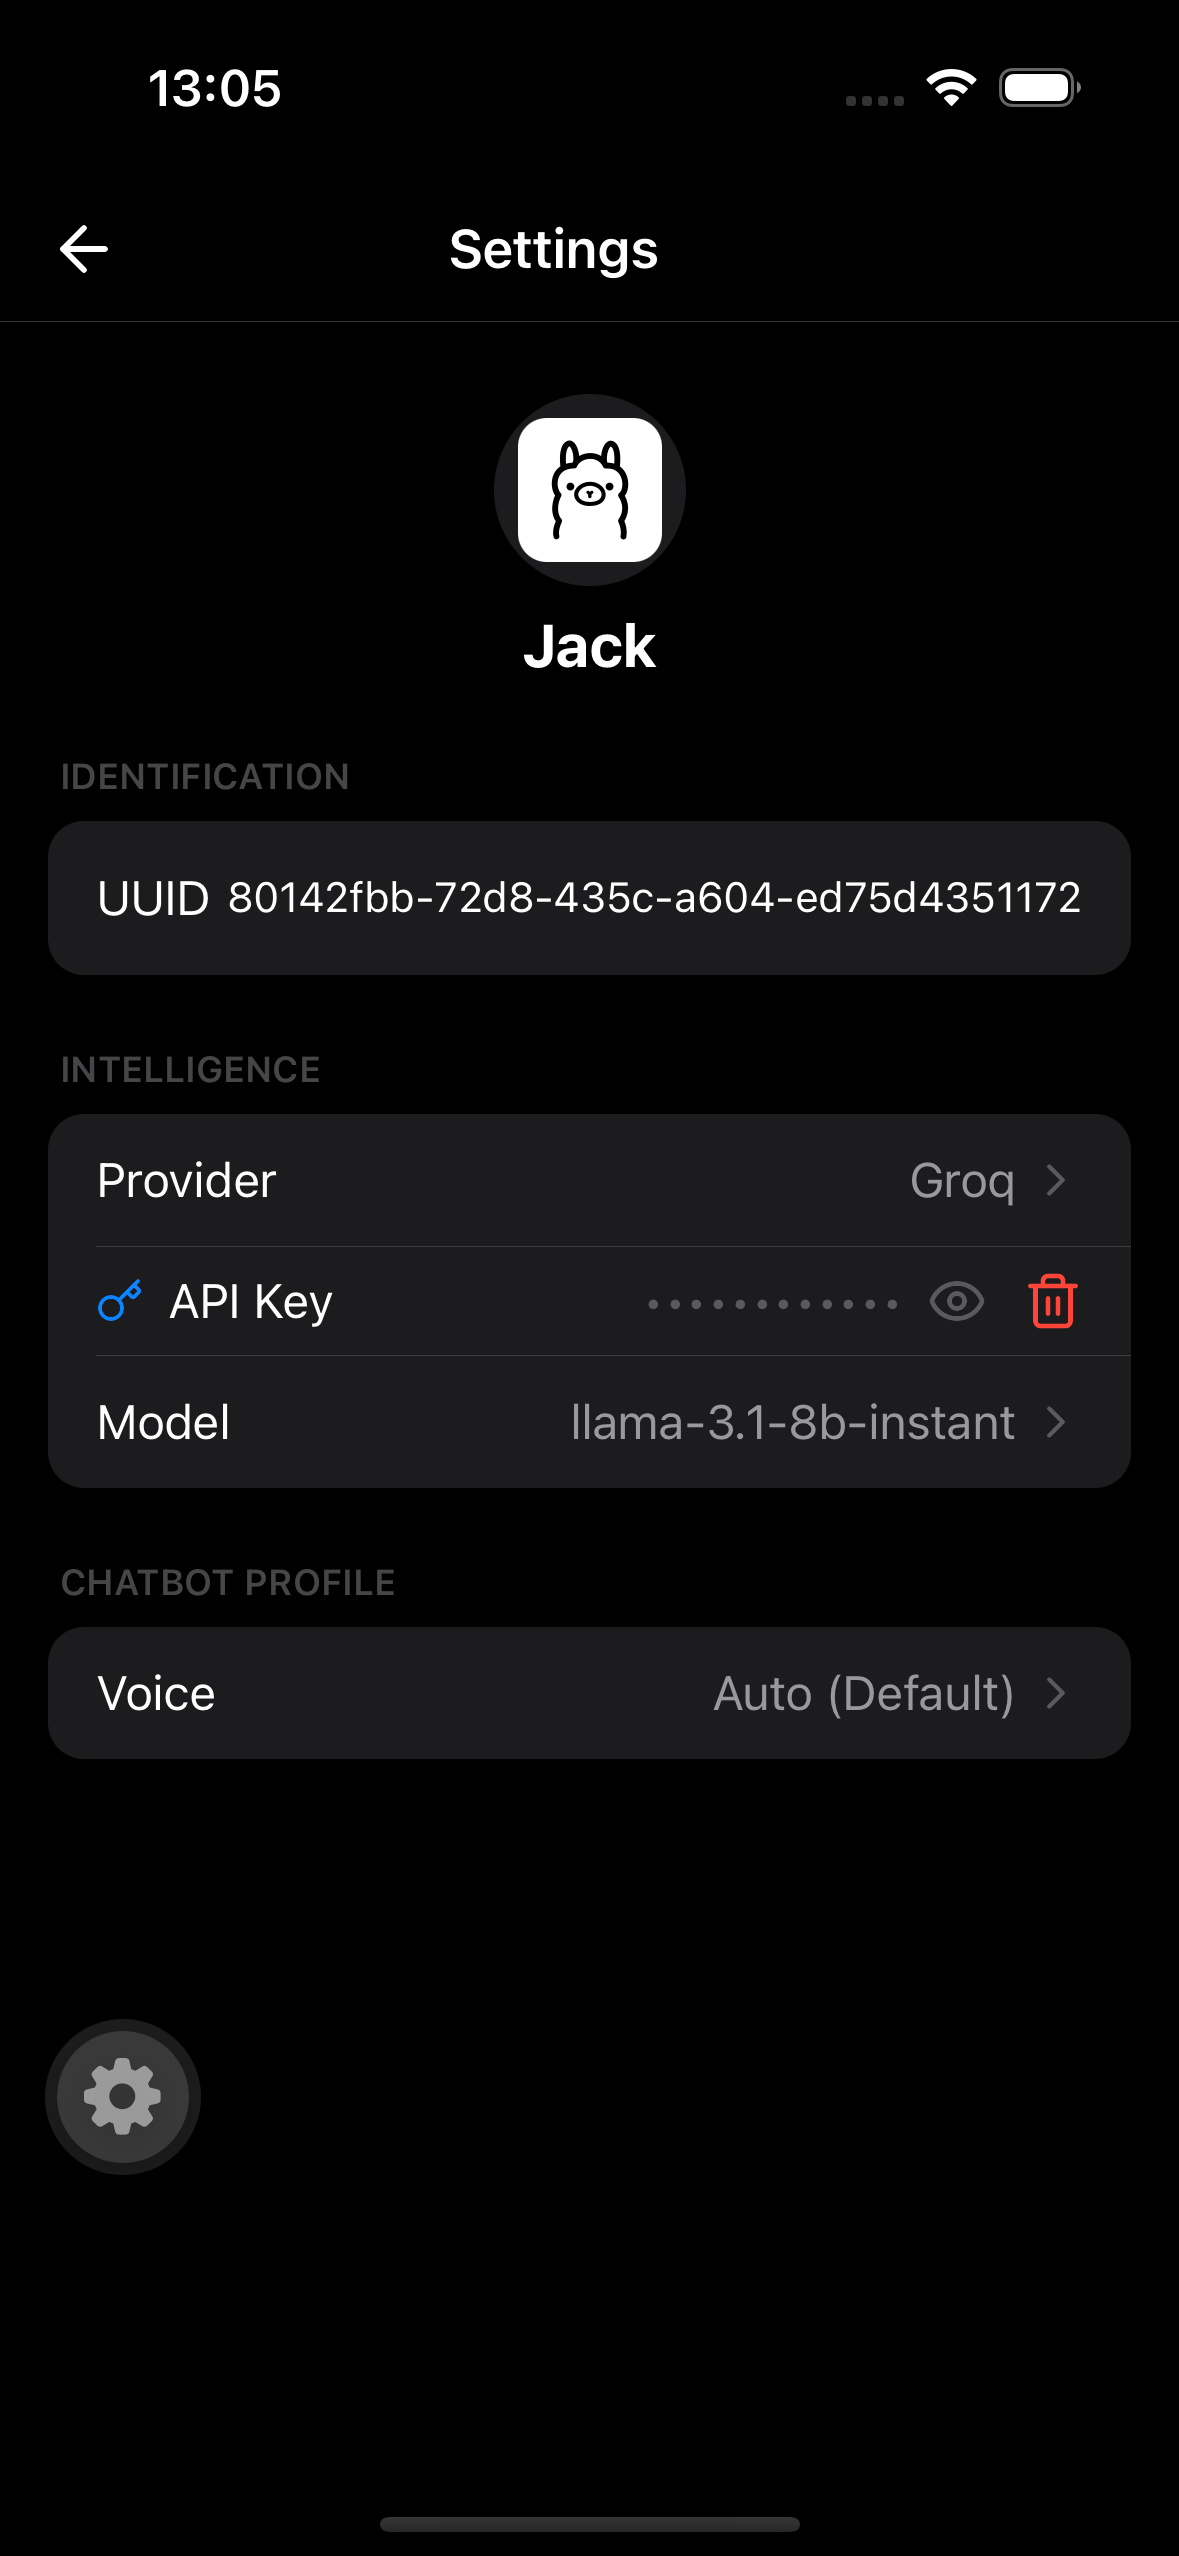
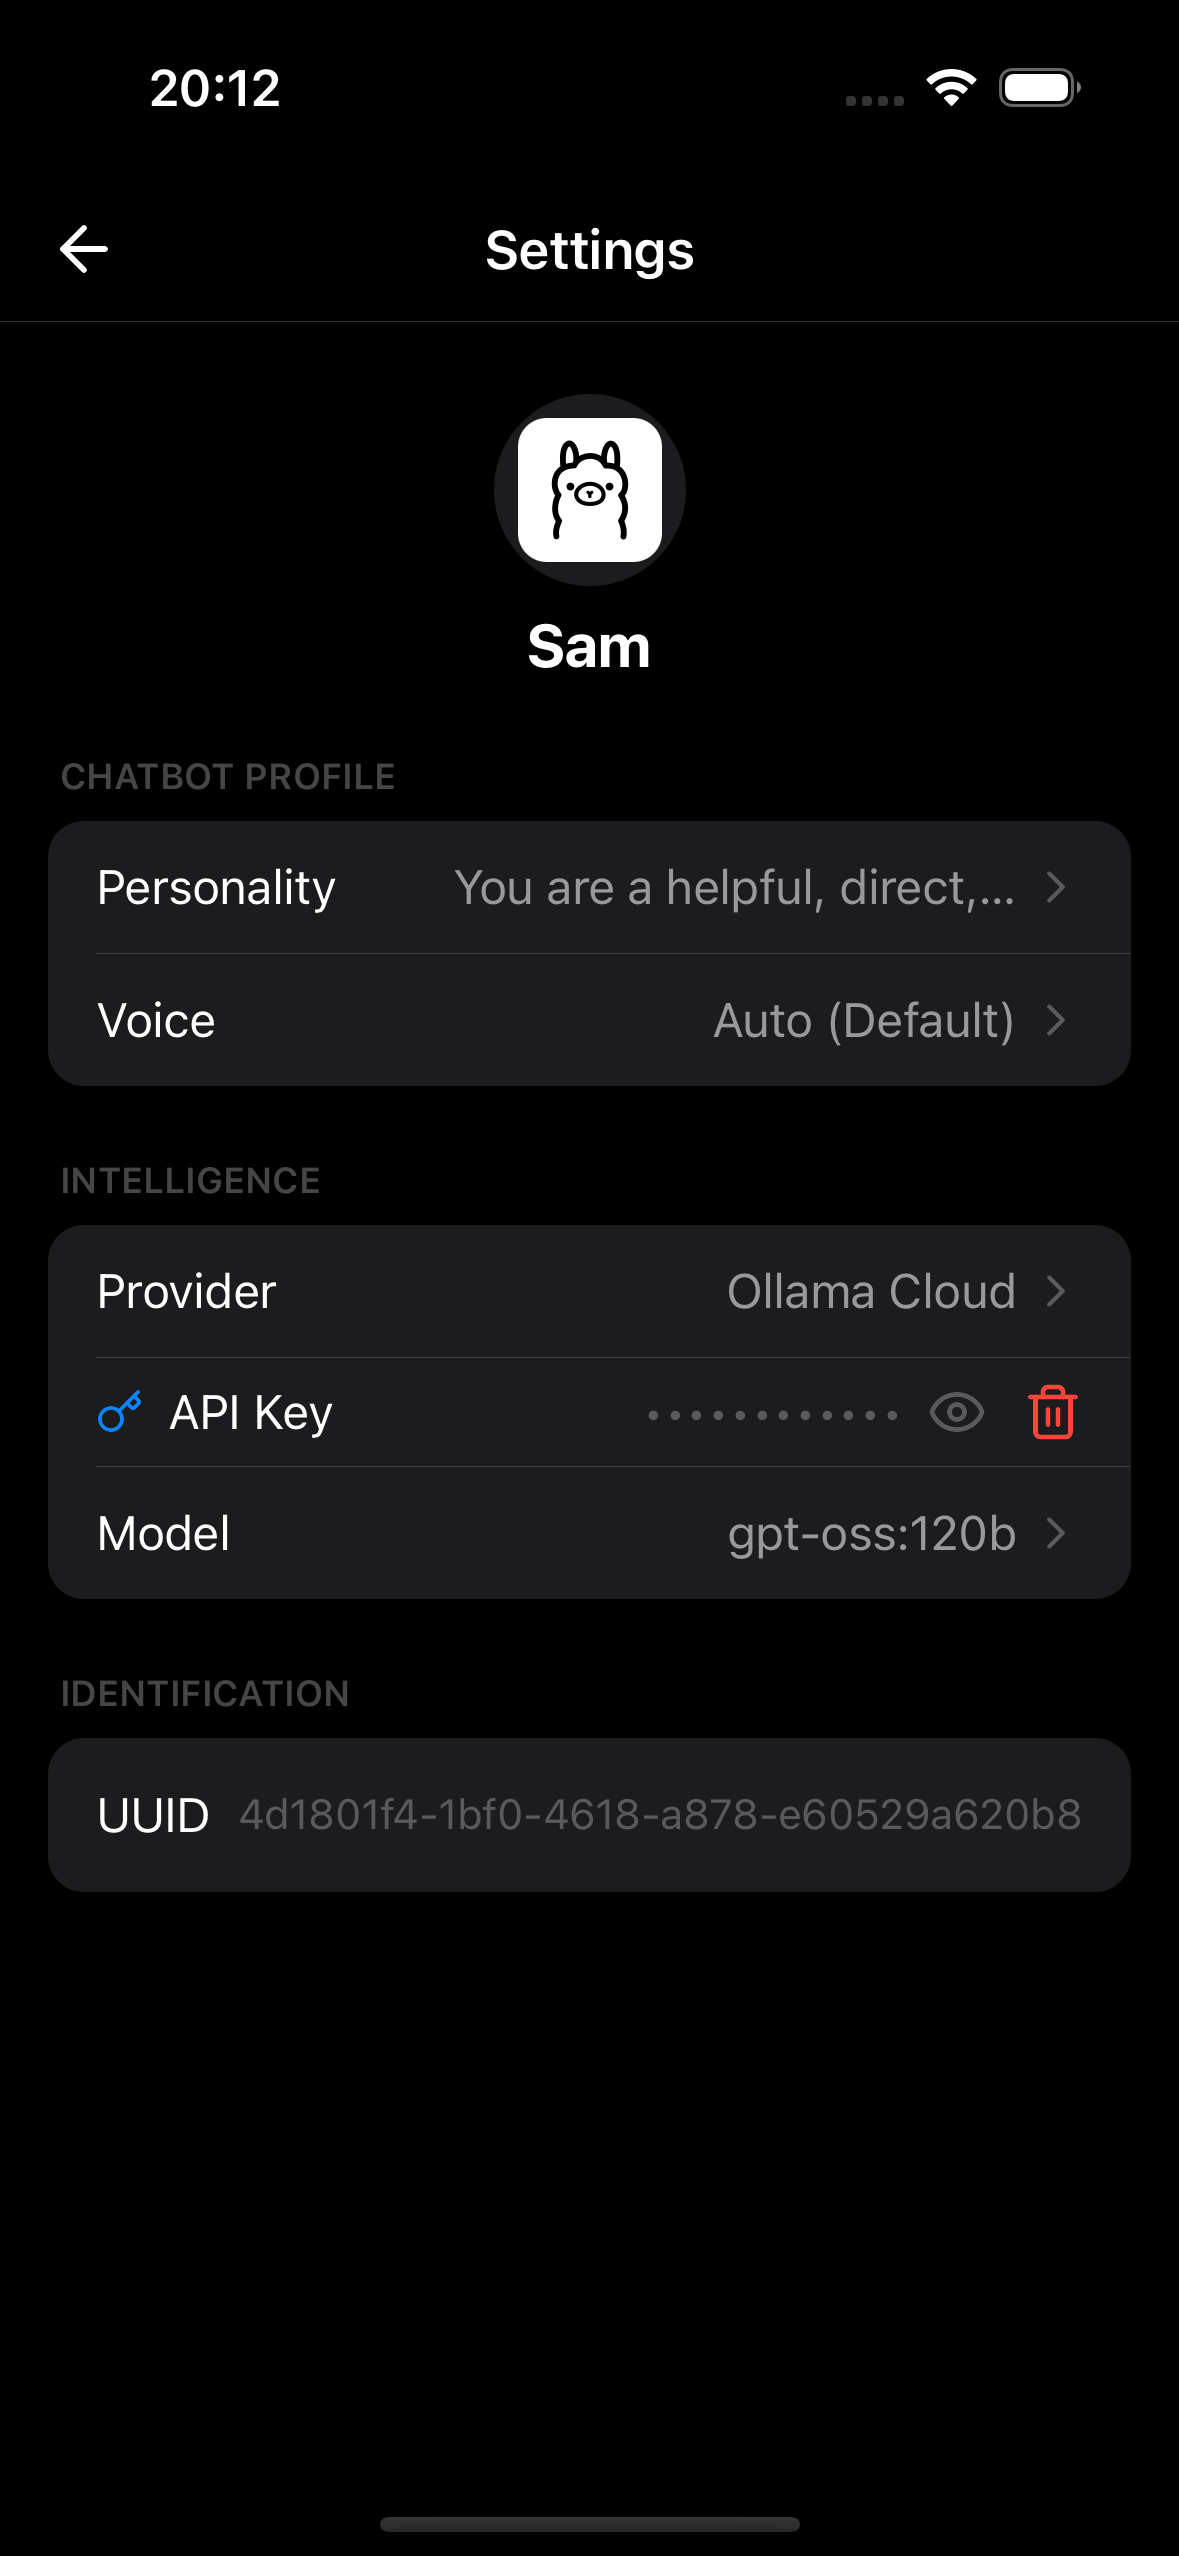
fix(settings): center title, re-arrange sections

diff --git a/src/components/chatbot-settings/ChatbotSettingsHeader.tsx b/src/components/chatbot-settings/ChatbotSettingsHeader.tsx
@@ -21,38 +21,48 @@ export function ChatbotSettingsHeader(props: ChatbotSettingsHeaderProps) {
 
   return (
     <View style={styles.header}>
-      <TouchableOpacity
-        accessibilityLabel="Go back"
-        onPress={onBack}
-        testID="settings-back-button"
-      >
-        <ArrowLeft color={colors.text} size={24} />
-      </TouchableOpacity>
-      <Text style={styles.headerTitle} testID="settings-header-title">
-        {isCreateMode ? 'New Chatbot' : 'Settings'}
-      </Text>
-      {isCreateMode ? (
-        <TouchableOpacity disabled={isSaving} onPress={onCreate}>
-          {isSaving ? (
-            <ActivityIndicator color={colors.accent} size="small" />
-          ) : (
-            <Text style={styles.headerBtnPrimary}>Create</Text>
-          )}
+      <View style={styles.sideSlot}>
+        <TouchableOpacity
+          accessibilityLabel="Go back"
+          onPress={onBack}
+          testID="settings-back-button"
+        >
+          <ArrowLeft color={colors.text} size={24} />
         </TouchableOpacity>
-      ) : (
-        <View style={{ width: 48 }} />
-      )}
+      </View>
+
+      <View style={styles.centerSlot}>
+        <Text style={styles.headerTitle} testID="settings-header-title">
+          {isCreateMode ? 'New Chatbot' : 'Settings'}
+        </Text>
+      </View>
+
+      <View style={[styles.sideSlot, styles.rightSlot]}>
+        {isCreateMode && (
+          <TouchableOpacity disabled={isSaving} onPress={onCreate}>
+            {isSaving ? (
+              <ActivityIndicator color={colors.accent} size="small" />
+            ) : (
+              <Text style={styles.headerBtnPrimary}>Create</Text>
+            )}
+          </TouchableOpacity>
+        )}
+      </View>
     </View>
   );
 }
 
 const styles = StyleSheet.create({
+  centerSlot: {
+    alignItems: 'center',
+    flex: 1,
+    justifyContent: 'center',
+  },
   header: {
     alignItems: 'center',
     borderBottomColor: colors.border,
     borderBottomWidth: StyleSheet.hairlineWidth,
     flexDirection: 'row',
-    justifyContent: 'space-between',
     paddingHorizontal: spacing[4],
     paddingVertical: spacing[3],
   },
@@ -65,5 +75,13 @@ const styles = StyleSheet.create({
     color: colors.text,
     fontSize: typography.lg,
     fontWeight: '600',
+    textAlign: 'center',
+  },
+  rightSlot: {
+    alignItems: 'flex-end',
+  },
+  sideSlot: {
+    justifyContent: 'center',
+    minWidth: 60,
   },
 });

diff --git a/src/app/chatbot-settings.tsx b/src/app/chatbot-settings.tsx
@@ -133,7 +133,14 @@ export default function ChatbotSettingsScreen() {
               providerId={config.llmProvider}
             />
 
-            <ChatbotIdentitySection uuid={config.uuid} />
+            <ChatbotProfileSection
+              onSelectPersonality={() =>
+                push('/settings-selection/personality')
+              }
+              onSelectVoice={() => push('/settings-selection/voice')}
+              personalityLabel={personalityLabel}
+              voiceLabel={voiceLabel}
+            />
 
             <ChatbotIntelligenceSection
               apiKeyDraft={apiKeyDraft}
@@ -151,16 +158,9 @@ export default function ChatbotSettingsScreen() {
               providerLabel={providerLabel}
             />
 
-            <ChatbotProfileSection
-              onSelectPersonality={() =>
-                push('/settings-selection/personality')
-              }
-              onSelectVoice={() => push('/settings-selection/voice')}
-              personalityLabel={personalityLabel}
-              voiceLabel={voiceLabel}
-            />
-
             {error && <Text style={styles.error}>{error}</Text>}
+
+            <ChatbotIdentitySection uuid={config.uuid} />
           </ScrollView>
         </KeyboardAvoidingView>
       </TouchableWithoutFeedback>

diff --git a/src/components/chatbot-settings/ChatbotIdentitySection.tsx b/src/components/chatbot-settings/ChatbotIdentitySection.tsx
@@ -52,7 +52,7 @@ const styles = StyleSheet.create({
     textTransform: 'uppercase',
   },
   value: {
-    color: colors.text,
+    color: colors.text3,
     fontSize: typography.sm,
   },
 });